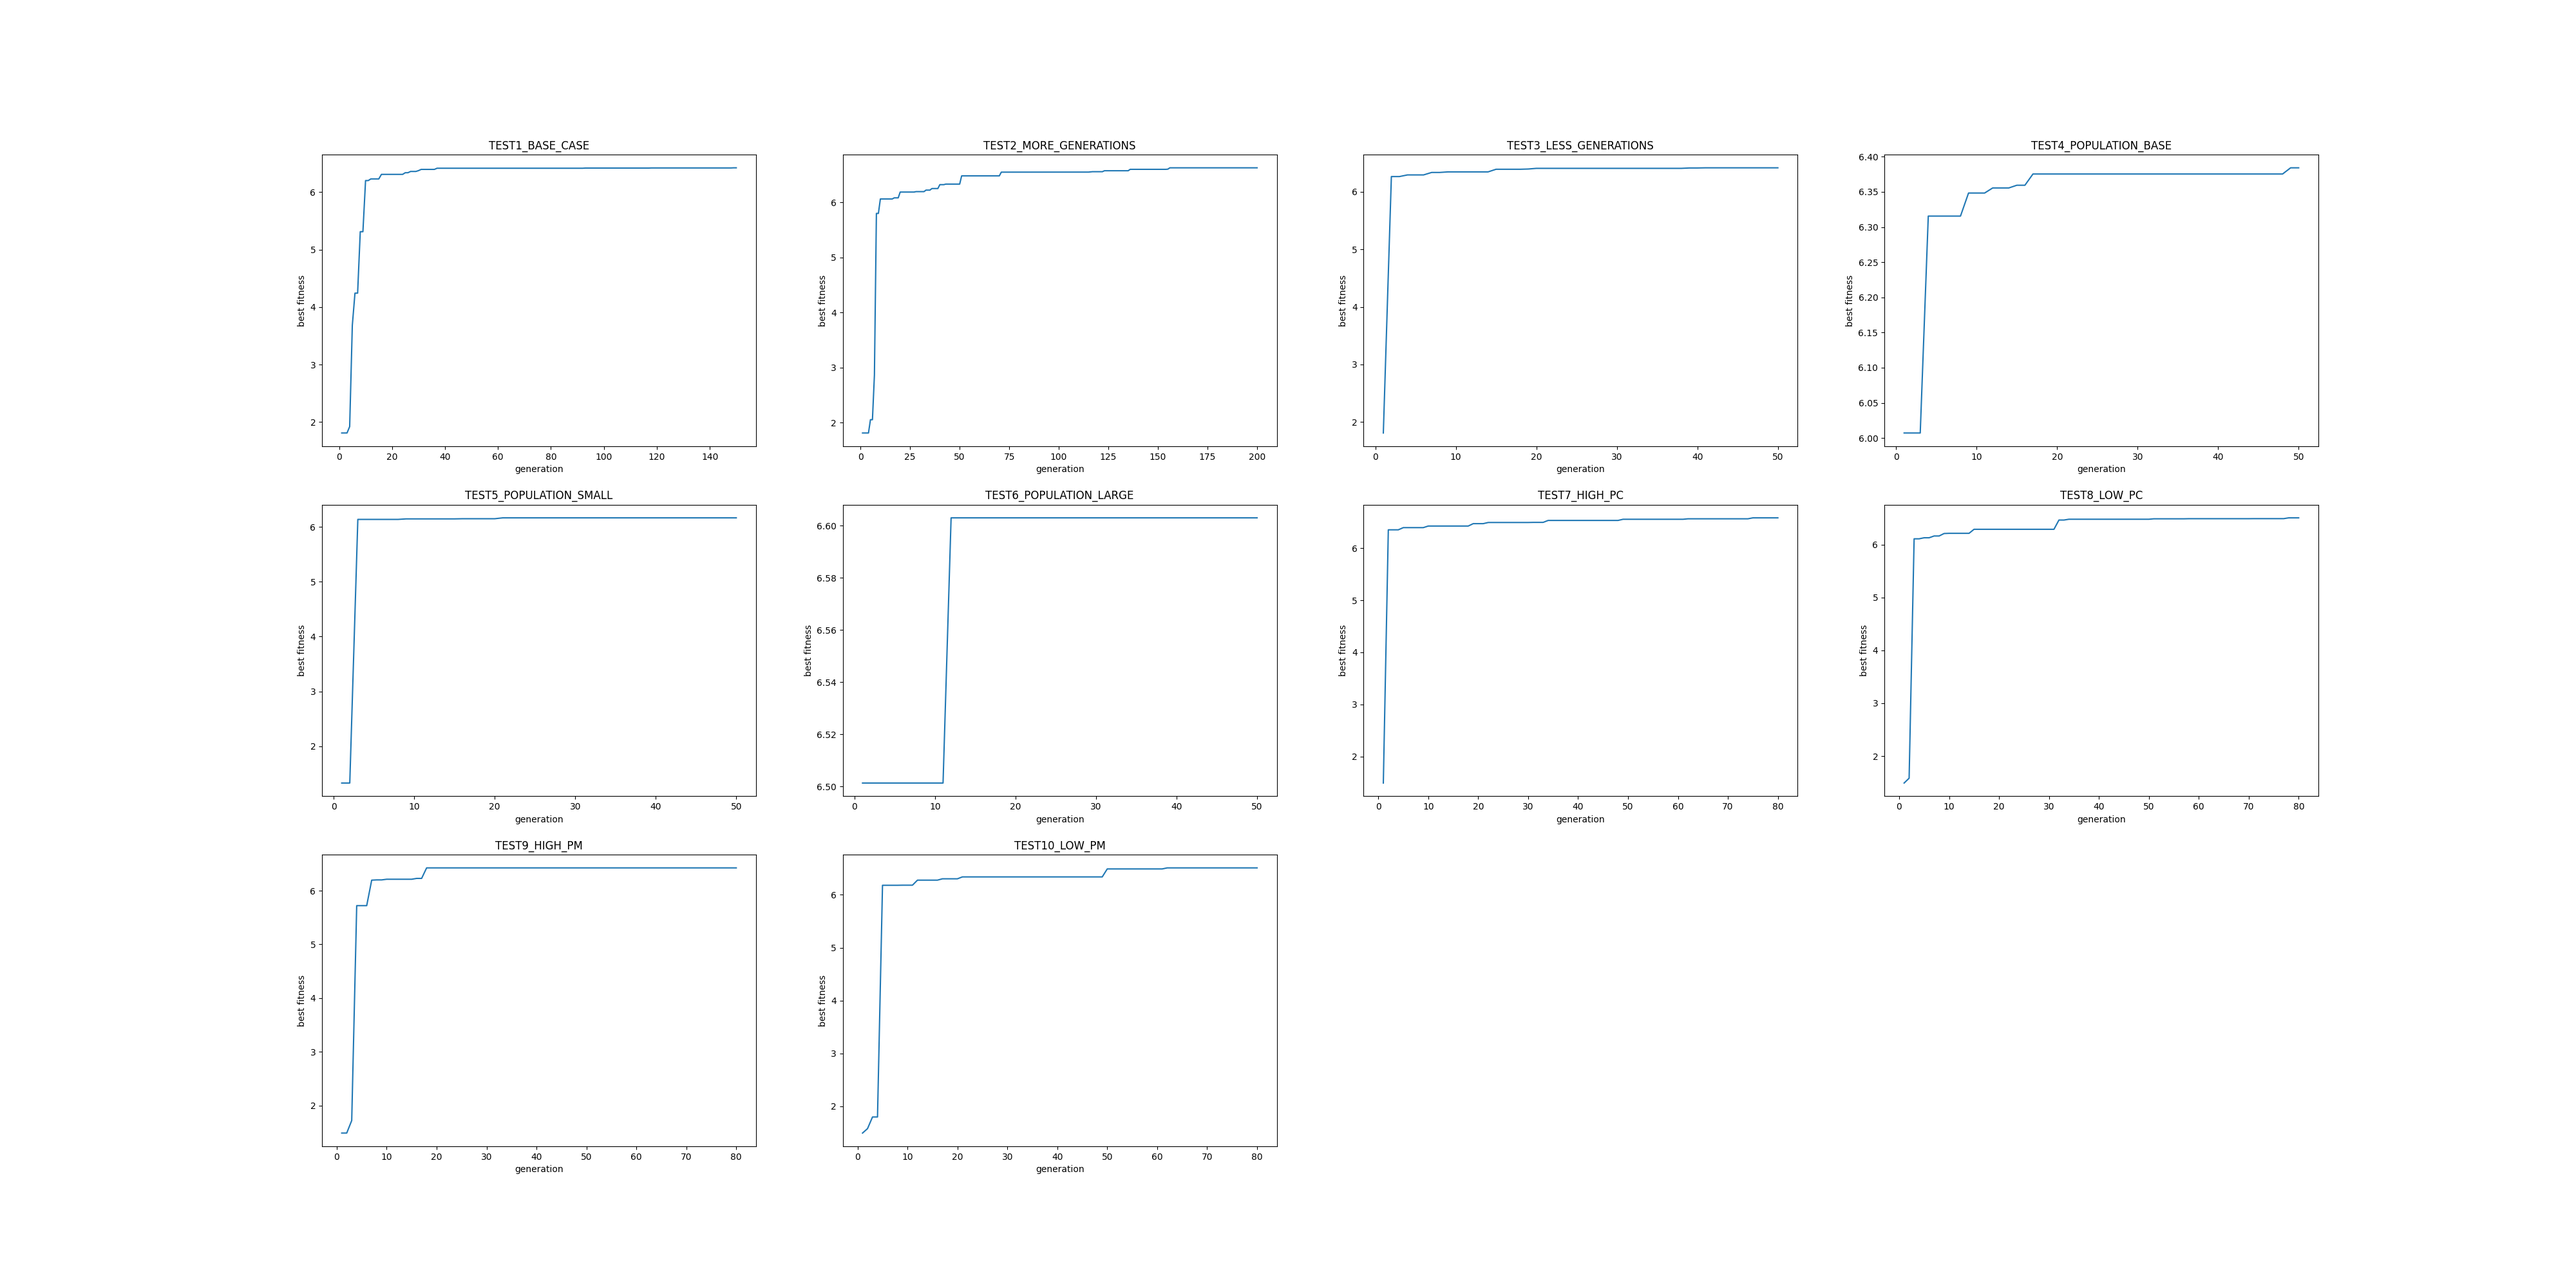
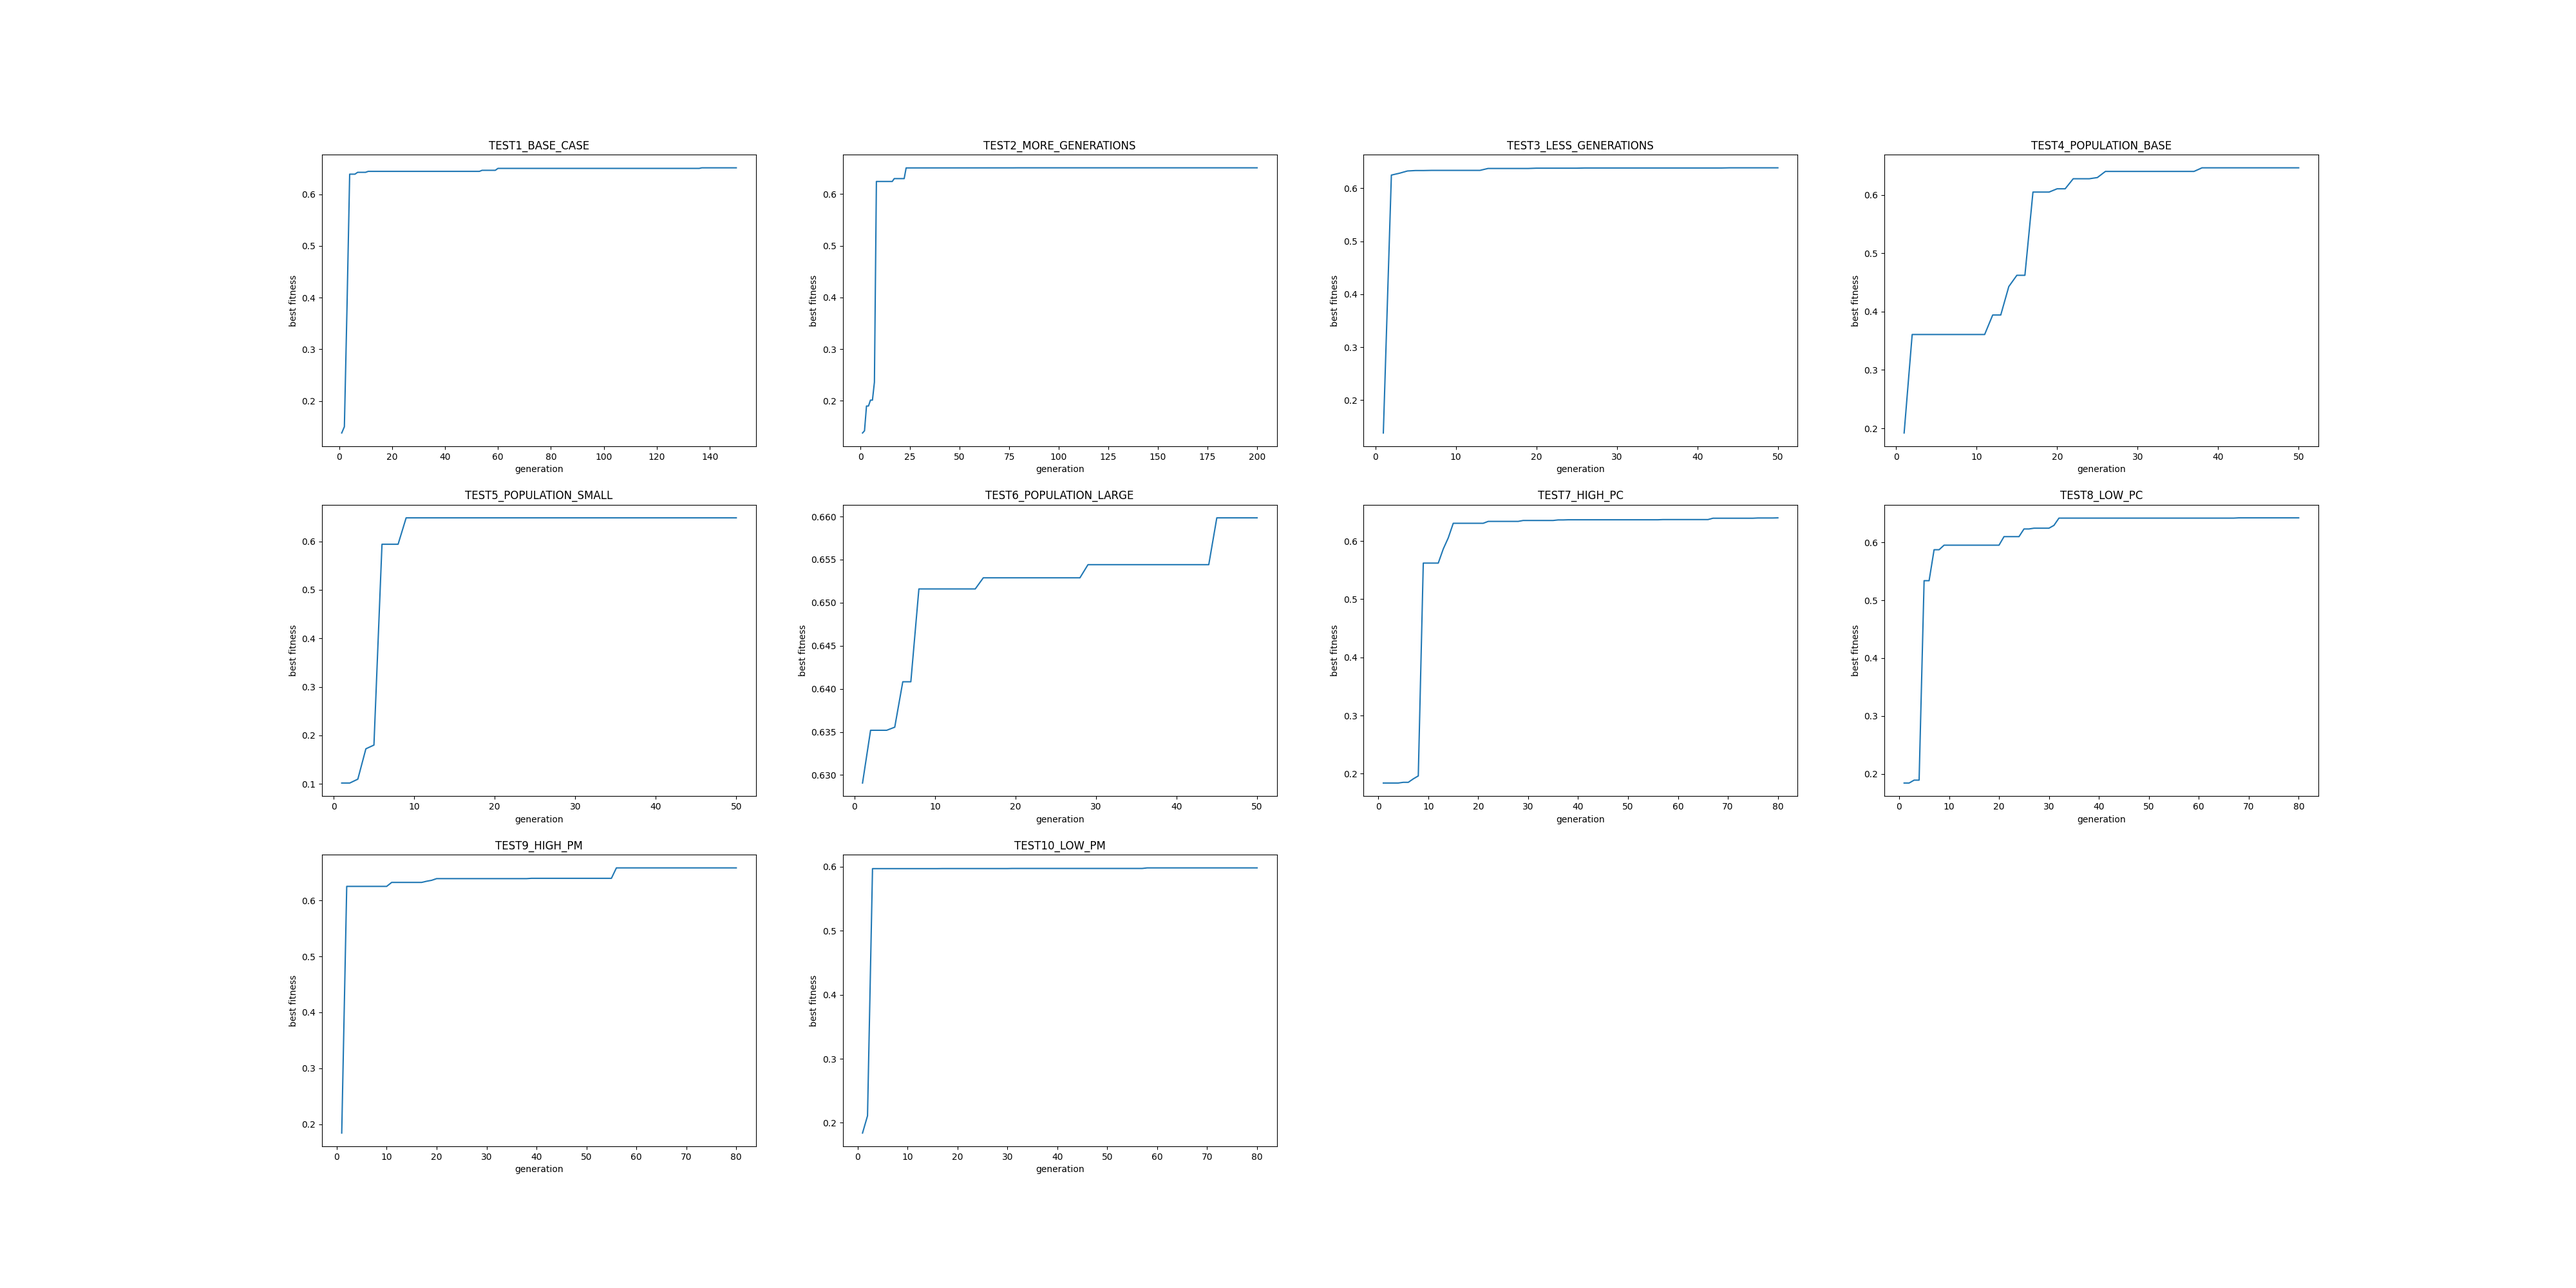
done

diff --git a/final.py b/final.py
@@ -1,0 +1,237 @@
+from control.matlab import *
+import numpy as np
+import matplotlib.pyplot as plt
+from operator import itemgetter
+import math
+import copy
+import logistics
+
+
+def plotExperiment(experiments):
+    plt.figure(figsize=(40,20))
+    # 3, 4
+    i = 0
+    for i in range(len(experiments)):
+        x = []
+        experiment = experiments[i]
+        y = experiment[0]
+        title = experiment[1]
+        for j in range(len(y)):
+            x.append(j+1)
+        plt.subplot(3, 4, i+1)
+        plt.plot(x,y)
+        plt.title(experiment[1])
+        plt.xlabel('generation')
+        plt.ylabel('best fitness')
+    plt.savefig("final" + '.png')
+    # for i in range(len(points)):
+    #     x.append(i)
+    # plt.figure()
+    # plt.title(name)
+    # plt.xlabel('generation')
+    # plt.ylabel('best fitness')
+    # plt.plot(x, points)
+    
+
+def getFitness(chromo):
+    kp = chromo[0]  # Random initial value between (2,18)
+    ti = chromo[1]  # Random initial value between (1.05, 9.42)
+    td = chromo[2]  # Random initial value between (0.26, 2.37)
+
+    # Compute G
+    g = kp * tf([ti * td, ti, 1], [ti, 0])
+
+    # Compute transfer function
+    f = tf(1, [1, 6, 11, 6, 0])
+
+    pid_sys = feedback(series(g, f), 1)
+    t = np.linspace(0, 50, 1000)
+    sysinfo = stepinfo(pid_sys)
+    # t = np.linspace(0, 0.01, 100)
+    repr = step(pid_sys)  # compute e(t)
+    
+    i_s_e = 0
+    t_r = sysinfo['RiseTime']
+    t_s = sysinfo['SettlingTime']
+    m_p = sysinfo['Overshoot']
+
+    if math.isnan(t_s): # infeasible solution
+        return -1
+
+    for i in range(len(repr[0])):
+        i_s_e += (repr[0][i]) * (repr[0][i])
+    total_cost = i_s_e +t_r*1000+t_s*100+m_p*100
+
+    if math.isnan(total_cost): #edge case throws error
+        return -1
+    return 10000/(1+total_cost)
+
+def generateStart(population):
+    sol_list = []
+    for i in range(population):
+        kp = logistics.customRand(2,18,2)
+        ti = logistics.customRand(1.05,9.42,2)
+        td = logistics.customRand(0.26,2.37,2)
+        sol_list.append(copy.deepcopy([kp,ti,td,0])) #add the 0 value for the fitness to be used and modified
+    return sol_list
+
+def russianRoulette(list,population):
+    sortedByfitness = copy.deepcopy(sorted(list, key = itemgetter(3)))
+    newlist = []
+    # add the 2 most fit chromosomes 
+    newlist.append(copy.deepcopy(sortedByfitness[population-1]))
+    newlist.append(copy.deepcopy(sortedByfitness[population-2]))
+    rouletteRatio = []
+    S = 0
+    verify = 0
+
+    for x in range (len(sortedByfitness)):
+        if sortedByfitness[x][3] > 0:
+            S += sortedByfitness[x][3]
+    
+    for i in range(population):
+        if sortedByfitness[i][3] > 0: # solution is feasible 
+            verify += sortedByfitness[i][3]/S
+            rouletteRatio.append(copy.deepcopy(verify))
+        else:
+            rouletteRatio.append(copy.deepcopy(-1))
+    
+    
+    
+    for i in range(population - 2):
+        check = logistics.customRand(0,0.99999,5) 
+        for j in range(population):
+            if rouletteRatio[j] >= check:
+                newlist.append(copy.deepcopy((sortedByfitness[j])))
+                break
+
+    return newlist
+
+def crossOver(list,population,pc):
+    #cross over chromosomes 
+    #exclude the 2 fittest solutions
+    index_swap = []
+    cloneList  = copy.deepcopy(list)
+    for i in range(2,population):
+        check = logistics.customRand(0,1,2)
+        if check <= pc: #this chromosome needs to be crossed over 
+            index_swap.append(i)
+    if(len(index_swap) <= 1):
+        return list
+    for j in range(len(index_swap)):
+        if j == len(index_swap)-1: # last element must cross over with the first 
+            index_A = index_swap[j]
+            index_B = index_swap[-1]
+        else:
+            index_A = index_swap[j]
+            index_B = index_swap[j+1]
+        
+        crossOverPoint = int(logistics.customRand(1,2,0))
+        if(crossOverPoint == 1):
+            cloneList[index_A] = [copy.deepcopy(cloneList[index_A][0]),copy.deepcopy(cloneList[index_B][1]), copy.deepcopy( cloneList[index_B][2] ),0]
+        else:
+            cloneList[index_A] = [copy.deepcopy(cloneList[index_A][0]),copy.deepcopy(cloneList[index_A][1]), copy.deepcopy( cloneList[index_B][2] ),0]
+    return cloneList
+
+def mutation(list,population,pm):
+    clone = copy.deepcopy(list)
+    for i in range(2,population):
+        
+        check = logistics.customRand(0,1,2)
+        if check <= pm:
+            clone[i][0] = copy.deepcopy(logistics.customRand(2,18,2))
+        check = logistics.customRand(0,1,2)
+        if check <= pm:
+            clone[i][1] = copy.deepcopy(logistics.customRand(1.05,9.42,2))
+        check = logistics.customRand(0,1,2)
+        if check <= pm:
+            clone[i][2] = copy.deepcopy(logistics.customRand(0.26,2.37,2))
+    return clone
+
+
+def main(sol = None,population = 50, generations = 150, Pc = 0.6, Pm = 0.25, title = "example"):
+    
+    plot_points = []
+    best_sol = []
+    if(sol == None):
+        surviors = generateStart(population)
+    else:
+        surviors = sol
+    for survior in surviors:
+        fit = getFitness(survior)
+        survior[3]= fit
+   
+    # print("Fitness!")
+    surviors = russianRoulette(surviors,population)
+    # print("russianRoulette!")
+    plot_points.append(surviors[0][3]) #this point will come from the 
+    best_sol.append(surviors[0])
+
+    surviors = crossOver(surviors,population,Pc)
+    # print("crossOver!")
+    surviors = mutation(surviors,population,Pm)
+    # print("mutation!")
+    # print("generations: " , generations)
+    for i in range(generations):
+        # print("here")
+        for survior in surviors:
+            fit = getFitness(survior)
+            survior[3] = fit
+        # print("Fitness!")
+        if i != generations - 1:
+            surviors = russianRoulette(surviors,population)
+            # print("russianRoulette!")
+            plot_points.append(surviors[0][3])
+            best_sol.append(surviors[0])
+            surviors = crossOver(surviors,population,Pc)
+            # print("crossOver!")
+            surviors = mutation(surviors, population,Pm)
+            # print("mutation!")
+        # print(i)
+           
+
+    #get the best solution of the last iterations found in position 0
+    print(title + " BEST solution found :", surviors[0])
+    return plot_points
+
+
+def RunTests():
+    print("Starting Tests: ")
+    #Question 3
+    starting = generateStart(population=50)
+    # TEST1() And Question 3
+    plotPoints = []
+    # plotByPoints(main(sol = starting,population = 50, generations = 150, Pc = 0.6, Pm = 0.25),name="TEST1_BASE_CASE")
+    plotPoints.append([main(sol = starting,population = 50, generations = 150, Pc = 0.6, Pm = 0.25, title="TEST_1"),"TEST1_BASE_CASE"])
+    #TEST2()
+    plotPoints.append([main(sol = starting , population = 50, generations = 200, Pc = 0.8, Pm = 0.25, title="TEST_2"),"TEST2_MORE_GENERATIONS"])
+    
+    
+    #TEST3()
+    plotPoints.append([main(sol = starting , population = 50, generations = 50, Pc = 0.6, Pm = 0.25, title="TEST_3"),"TEST3_LESS_GENERATIONS"])
+# POPULATION SIZE
+    #TEST4()
+    plotPoints.append([main( population = 50, generations = 50, Pc = 0.6, Pm = 0.25, title="TEST_4"),"TEST4_POPULATION_BASE"])
+    #TEST5()
+    plotPoints.append([main( population = 25, generations = 50, Pc = 0.6, Pm = 0.25, title="TEST_5"),"TEST5_POPULATION_SMALL"])
+    #TEST6()
+    plotPoints.append([main(population = 400, generations = 50, Pc = 0.6, Pm = 0.25, title="TEST_6"),"TEST6_POPULATION_LARGE"])
+
+# PROBABILITIES
+    starting = generateStart(population=50)
+    #TEST7()
+    plotPoints.append([main(sol=starting, population = 50, generations = 80, Pc = 0.8, Pm = 0.25, title="TEST_7"),"TEST7_HIGH_PC"])
+    #TEST8()
+    plotPoints.append([main(sol=starting, population = 50, generations = 80, Pc = 0.4, Pm = 0.25, title="TEST_8"),"TEST8_LOW_PC"])
+    #TEST9()
+    plotPoints.append([main(sol=starting, population = 50, generations = 80, Pc = 0.6, Pm = 0.5, title="TEST_9"),"TEST9_HIGH_PM"])
+    #TEST10()
+    plotPoints.append([main(sol=starting, population = 50, generations = 80, Pc = 0.6, Pm = 0.1, title="TEST_10"),"TEST10_LOW_PM"])
+
+    plotExperiment(plotPoints)
+
+    print("Tests Complete")
+
+RunTests()
+
+# see()

diff --git a/test.py b/test.py
@@ -34,7 +34,7 @@ t_s = sysinfo['SettlingTime']
 m_p = sysinfo['Overshoot']
 
 # t = np.linspace(0, 0.01, 100) 
-repr = step(pid_sys,t)  # compute e(t)
+repr = step(pid_sys)  # compute e(t)
 # repr2 = step(pid_sys)
 # printCleanMatrix(repr1[-1])
 
@@ -43,8 +43,37 @@ for i in range(len(repr[0])):
 
 # print(t, len(repr1[0]))
 
-print("ise ",i_s_e,  "tr ",t_r,"ts ", t_s, "mp",m_p)
+print("ise ",i_s_e,  "tr ",t_r *1000,"ts ", t_s *100, "mp",m_p*100)
 
 
+for i in range(100):
+    kp = logistics.customRand(2,18,2)
+    ti = logistics.customRand(1.05,9.42,2)
+    td = logistics.customRand(0.26,2.37,2)
+    # Compute G
+    g = kp * tf([ti * td, ti, 1], [ti, 0])
 
+    # Compute transfer function
+    f = tf(1, [1, 6, 11, 6, 0])
+
+    pid_sys = feedback(series(g, f), 1)
+    t = np.linspace(0, 50, 1000)
+    sysinfo = stepinfo(pid_sys)
+
+    i_s_e = 0
+    t_r = sysinfo['RiseTime']
+    t_s = sysinfo['SettlingTime']
+    m_p = sysinfo['Overshoot']
+
+    # t = np.linspace(0, 0.01, 100) 
+    repr = step(pid_sys,t)  # compute e(t)
+    # repr2 = step(pid_sys)
+    # printCleanMatrix(repr1[-1])
+
+    for i in range(len(repr[0])):
+        i_s_e += (repr[0][i]) * (repr[0][i])
+
+    # print(t, len(repr1[0]))
+
+    print("ise ",i_s_e,  "tr ",t_r *1000,"ts ", t_s *100, "mp",m_p*100)
     
